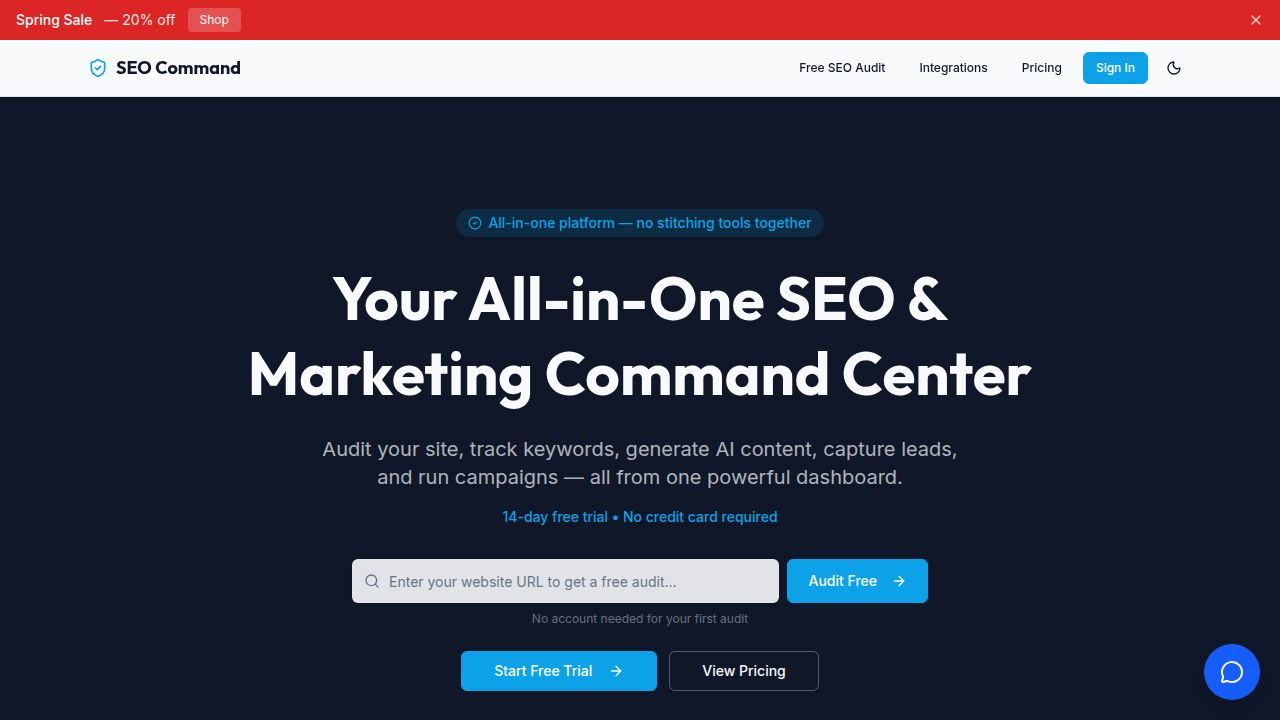
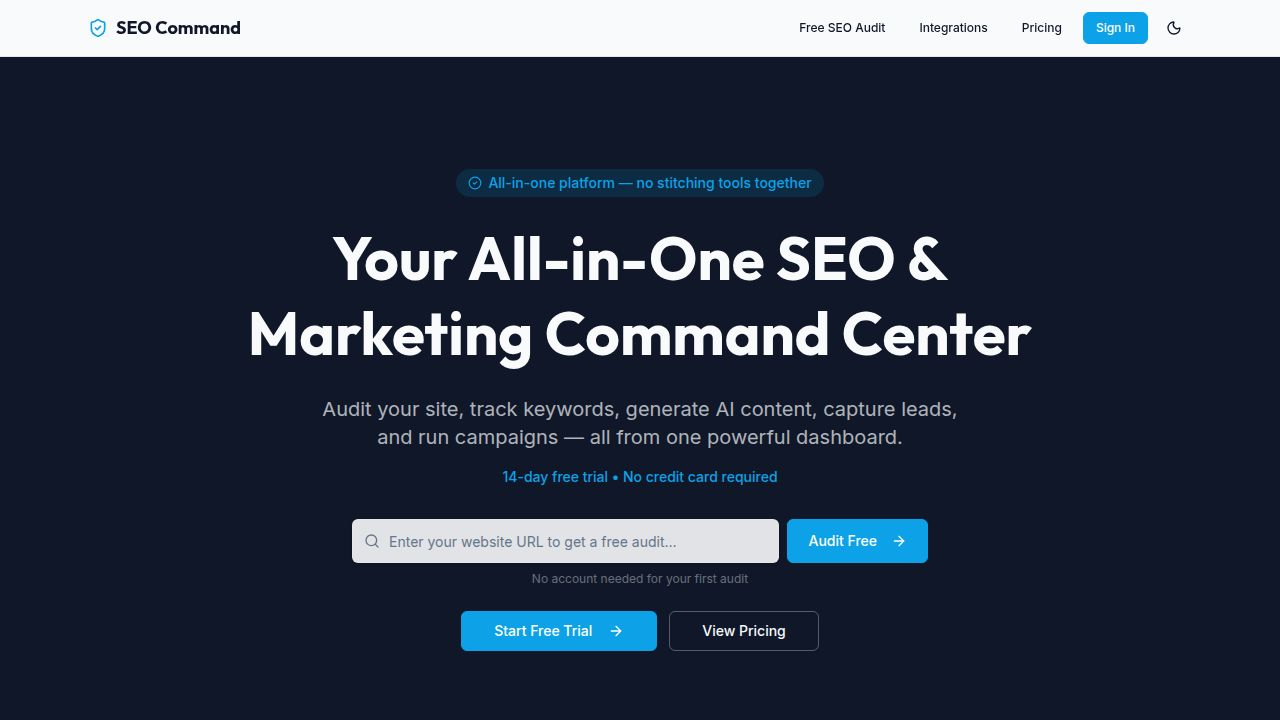
feat: show refreshing indicator on dashboard overview after Google reconnect (task #24)
The `ga4-reconnect-pending-{websiteId}` sessionStorage key was already set
by Ga4TrafficPanel before redirecting to Google OAuth, but the dashboard
overview never consumed it — so if the user landed back on the overview instead
of the analytics tab, no indicator appeared and data stayed stale with no feedback.

Changes — artifacts/marketing-hub/src/pages/dashboard.tsx:

Added `DashboardGa4RefreshingBanner` component:
- Reads all `ga4-reconnect-pending-*` keys from sessionStorage on mount
- State machine: 'pending' → 'done' (success) or 'failed' (error)
- While 'pending': renders a spinning blue "Refreshing data…" banner
  (data-testid="banner-dashboard-ga4-refreshing")
- Fires `getGa4Report(..., refresh:"true")` in parallel for every pending
  website via Promise.allSettled
- On full success: removes sessionStorage keys, then awaits
  `queryClient.refetchQueries(getGetAnalyticsSummaryQueryKey())` so the
  banner stays visible until the overview summary cards are actually
  populated with fresh data, then transitions to 'done'
- On any failure: keeps sessionStorage keys intact (so Ga4TrafficPanel can
  still pick them up when the user navigates to analytics), transitions to
  'failed' — shows amber "Could not load fresh GA4 data" banner with a
  "Try again" button (data-testid="button-dashboard-ga4-refresh-retry")
- Retry resets state to 'pending', re-triggering the useEffect
- Cancels in-flight fetch on unmount via cancelled flag; guards setBannerState
[…]

diff --git a/artifacts/marketing-hub/src/pages/dashboard.tsx b/artifacts/marketing-hub/src/pages/dashboard.tsx
@@ -1,8 +1,9 @@
-import { useEffect } from "react";
+import { useEffect, useState } from "react";
+import { useQueryClient } from "@tanstack/react-query";
 import { Link } from "wouter";
 import {
   Globe, Search, Megaphone, Users, Link2, TrendingUp, Target, Calendar,
-  Sparkles, BarChart3, Zap, Plus, ArrowRight, Share2, AlertCircle
+  Sparkles, BarChart3, Zap, Plus, ArrowRight, Share2, AlertCircle, RefreshCw, AlertTriangle
 } from "lucide-react";
 import { ProductTour, TourLaunchButton, useTour } from "@/components/ProductTour";
 import { ActiveVisitorsBadge } from "@/components/ActiveVisitorsBadge";
@@ -20,6 +21,9 @@ import {
   useGetCampaignAnalytics,
   useListWebsites,
   useGetGoogleIntegrationStatus,
+  getGa4Report,
+  getGetAnalyticsSummaryQueryKey,
+  type GetGa4ReportRefresh,
 } from "@workspace/api-client-react";
 
 function GooglePermissionsBanner({ websiteId }: { websiteId: number }) {
@@ -45,6 +49,93 @@ function GooglePermissionsBanner({ websiteId }: { websiteId: number }) {
           </Link>
         </p>
       </div>
+    </div>
+  );
+}
+
+type DashboardReconnectState = 'pending' | 'failed' | 'done';
+
+function DashboardGa4RefreshingBanner() {
+  const queryClient = useQueryClient();
+
+  const [pendingIds] = useState<number[]>(() => {
+    const ids: number[] = [];
+    for (let i = 0; i < sessionStorage.length; i++) {
+      const key = sessionStorage.key(i);
+      if (key?.startsWith("ga4-reconnect-pending-")) {
+        const id = parseInt(key.replace("ga4-reconnect-pending-", ""), 10);
+        if (!isNaN(id)) ids.push(id);
+      }
+    }
+    return ids;
+  });
+
+  const [bannerState, setBannerState] = useState<DashboardReconnectState>(
+    () => (pendingIds.length > 0 ? 'pending' : 'done')
+  );
+
+  useEffect(() => {
+    if (bannerState !== 'pending') return;
+    if (pendingIds.length === 0) return;
+
+    let cancelled = false;
+    (async () => {
+      const results = await Promise.allSettled(
+        pendingIds.map(id =>
+          getGa4Report(id, { dateRange: "30d", refresh: "true" as GetGa4ReportRefresh })
+        )
+      );
+      if (cancelled) return;
+
+      if (results.some(r => r.status === 'rejected')) {
+        setBannerState('failed');
+      } else {
+        pendingIds.forEach(id => sessionStorage.removeItem(`ga4-reconnect-pending-${id}`));
+        await queryClient.refetchQueries({ queryKey: getGetAnalyticsSummaryQueryKey() });
+        if (!cancelled) setBannerState('done');
+      }
+    })();
+
+    return () => { cancelled = true; };
+  }, [bannerState, pendingIds, queryClient]);
+
+  if (bannerState === 'done') return null;
+
+  if (bannerState === 'failed') {
+    return (
+      <div
+        className="flex items-start gap-3 rounded-lg border border-amber-200 bg-amber-50 dark:border-amber-800 dark:bg-amber-950/40 px-4 py-3"
+        data-testid="banner-dashboard-ga4-refresh-failed"
+      >
+        <AlertTriangle className="h-4 w-4 text-amber-600 dark:text-amber-400 shrink-0 mt-0.5" />
+        <div className="flex-1 min-w-0">
+          <p className="text-sm font-medium text-amber-900 dark:text-amber-100">
+            Could not load fresh GA4 data
+          </p>
+          <p className="text-xs text-amber-700 dark:text-amber-300 mt-0.5">
+            The connection succeeded, but fetching data failed.{" "}
+            <button
+              onClick={() => setBannerState('pending')}
+              className="underline font-medium hover:no-underline"
+              data-testid="button-dashboard-ga4-refresh-retry"
+            >
+              Try again
+            </button>
+          </p>
+        </div>
+      </div>
+    );
+  }
+
+  return (
+    <div
+      className="flex items-center gap-3 rounded-lg border border-blue-200 bg-blue-50 dark:border-blue-800 dark:bg-blue-950/40 px-4 py-3"
+      data-testid="banner-dashboard-ga4-refreshing"
+    >
+      <RefreshCw className="h-4 w-4 text-blue-600 dark:text-blue-400 shrink-0 animate-spin" />
+      <p className="text-sm font-medium text-blue-900 dark:text-blue-100">
+        Refreshing data…
+      </p>
     </div>
   );
 }
@@ -266,6 +357,9 @@ export default function Dashboard() {
       <div data-tour="getting-started">
         <OnboardingDashboardCard />
       </div>
+
+      {/* Refreshing indicator — shown after Google reconnect until fresh GA4 data loads */}
+      <DashboardGa4RefreshingBanner />
 
       {/* Google permissions nudge — shown for any connected website with missing scopes */}
       {(websites ?? []).map(site => (